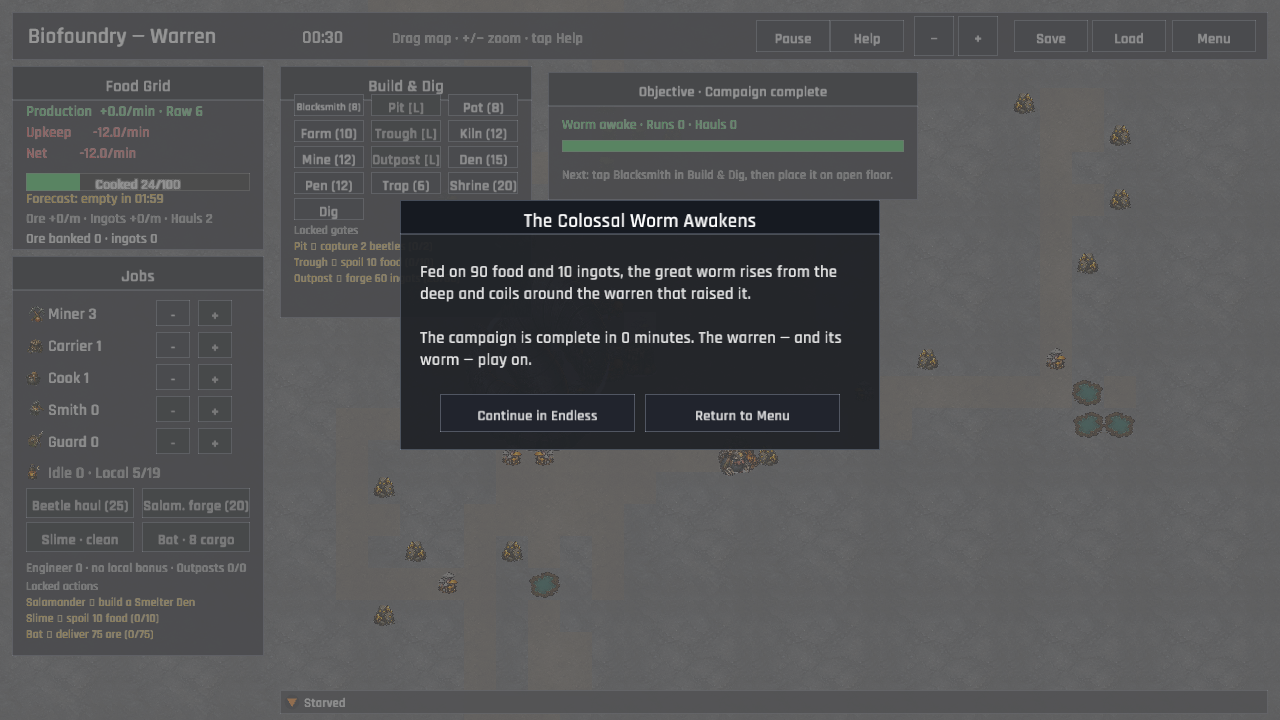
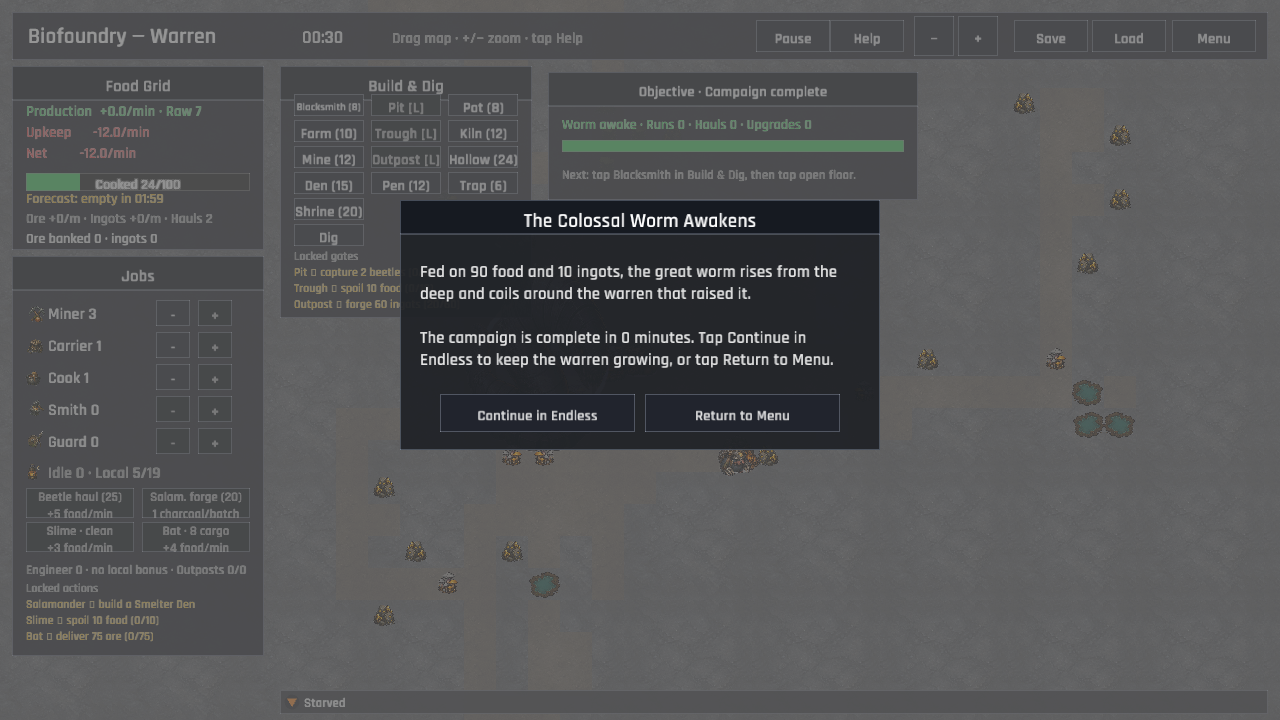
The risen worm names the road beyond the gate (completion handoff guidance)
The worm-awakening report celebrated the climax but left the next visible choices implicit in its body. It now names Continue in Endless and Return to Menu directly, while the canonical completion capture, compact touch audit, and HUD assertion preserve the post-campaign handoff.

diff --git a/src/ui/hud.rs b/src/ui/hud.rs
@@ -301,7 +301,7 @@ fn colony_failure_reason(session: &GameSession, data: &GameData) -> Option<Colon
 
 fn worm_completion_body(session: &GameSession) -> String {
     format!(
-        "Fed on {:.0} food and {} ingots, the great worm rises from the deep and coils around the warren that raised it.\n\nThe campaign is complete in {:.0} minutes. The warren — and its worm — play on.",
+        "Fed on {:.0} food and {} ingots, the great worm rises from the deep and coils around the warren that raised it.\n\nThe campaign is complete in {:.0} minutes. Tap Continue in Endless to keep the warren growing, or tap Return to Menu.",
         session.worm_fed,
         session.worm_ingots_fed,
         simulation::sim_seconds(session) / 60.0

diff --git a/src/ui/hud/tests.rs b/src/ui/hud/tests.rs
@@ -81,6 +81,8 @@ fn worm_completion_summary_names_the_resources_consumed() {
         "Fed on {:.0} food and {} ingots",
         data.balance.worm_awaken_at, data.balance.worm_awaken_ingots
     )));
+    assert!(body.contains("Tap Continue in Endless"));
+    assert!(body.contains("tap Return to Menu"));
     assert!(!body.contains("offerings"));
 }
 

diff --git a/docs/phase-one/CANDIDATE_VERIFICATION.md b/docs/phase-one/CANDIDATE_VERIFICATION.md
@@ -662,10 +662,10 @@ automated simulation results into first-time-player evidence.
   are available; focused inspection coverage also exercises the unlocked and
   staffed Slime paths.
 - Completion capture — [ui_completion.png](../verification/ui_completion.png)
-  shows the Worm Awakened summary naming the food and ingot totals, with visible
-  Continue in Endless and Return to Menu choices. The completed Objective also
-  points toward the first visible Endless forge recovery step. Packaged completion remains an open
-  live-session check below.
+  shows the Worm Awakened summary naming the food and ingot totals, with body
+  copy that names the visible `Continue in Endless` and `Return to Menu` taps.
+  The completed Objective also points toward the first visible Endless forge
+  recovery step. Packaged completion remains an open live-session check below.
 - Endless route capture — [ui_endless.png](../verification/ui_endless.png) shows
   the completed Objective pointing to a cargo run and an active Worm Outpost
   with cargo mix, capacity, crew, directional transit controls, and a clear
